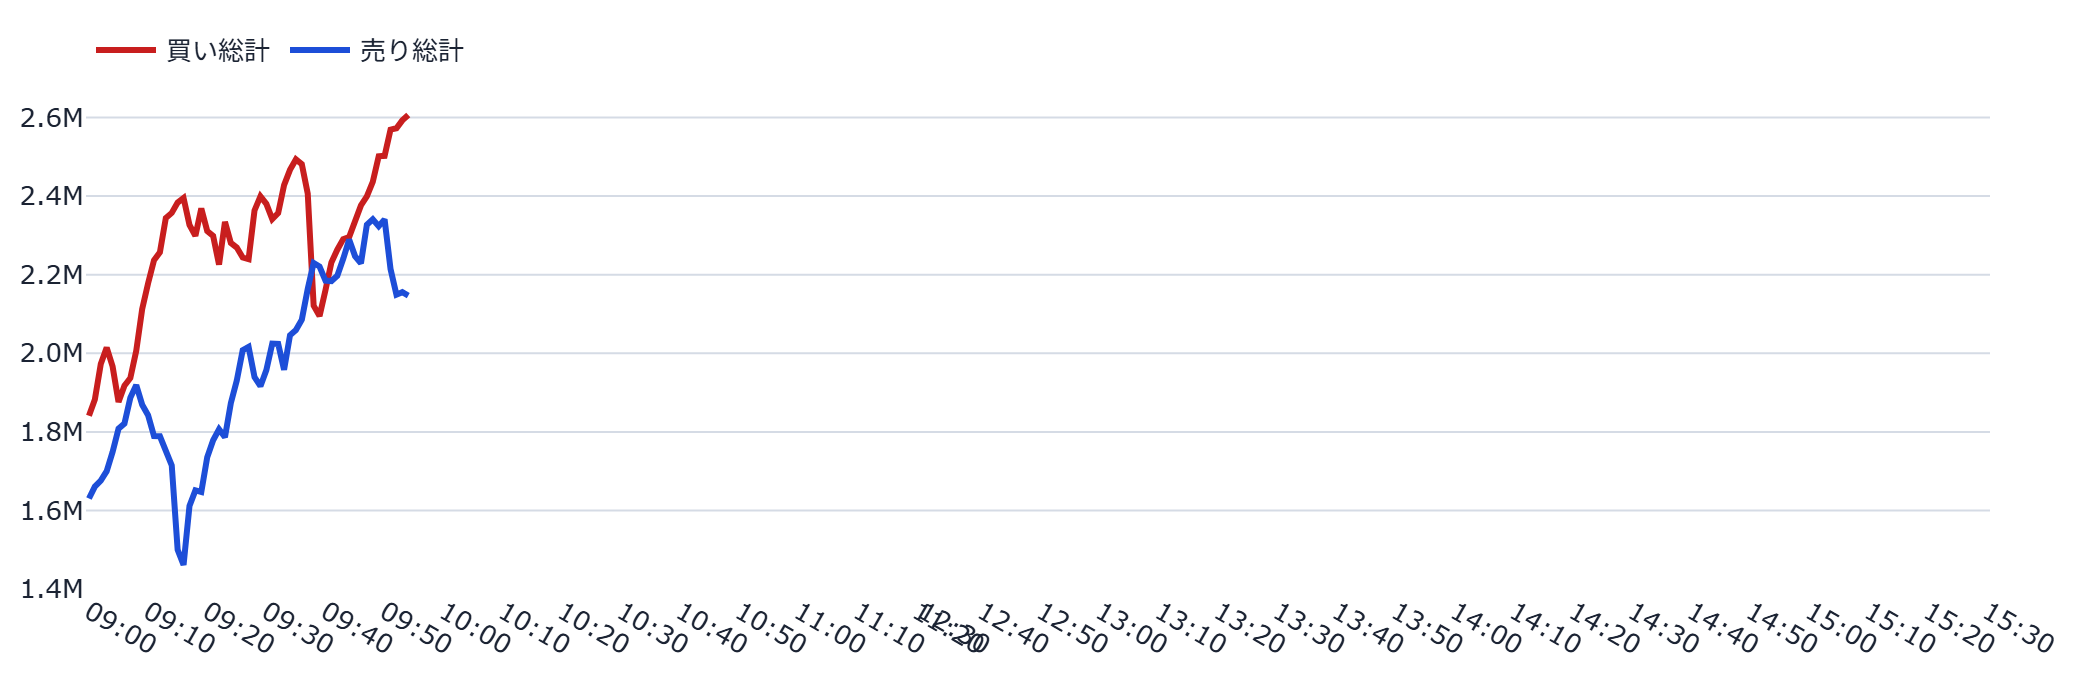
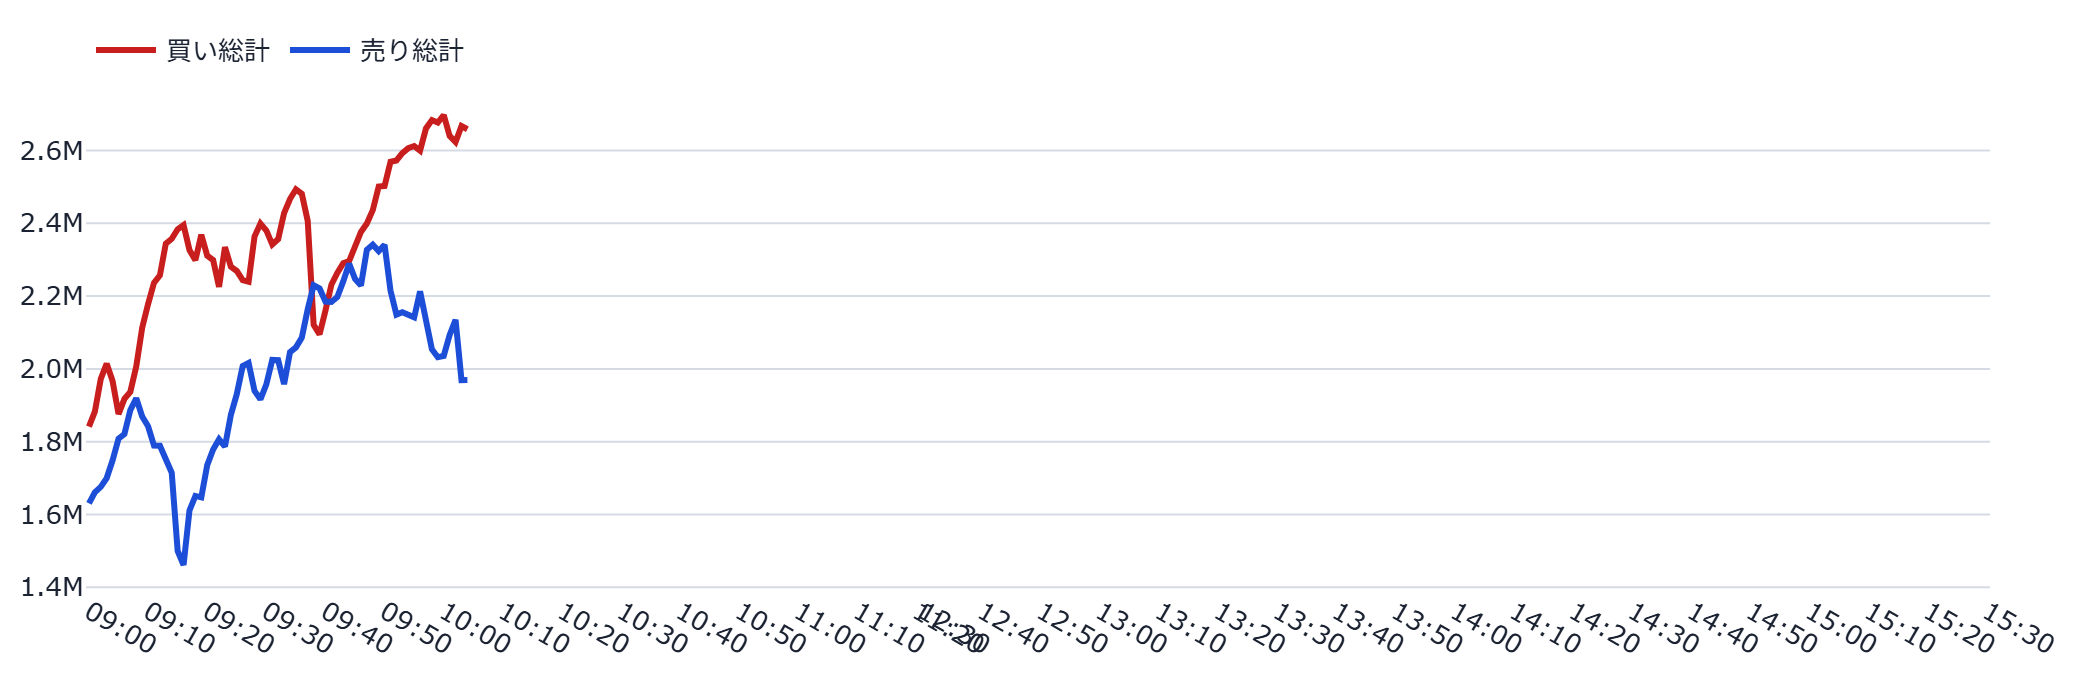
auto: refresh static dashboard (2026-11-09 10:05:14 JST)

diff --git a/docs/index.html b/docs/index.html
@@ -141,13 +141,13 @@
       <div class="panel header">
         <span class="symbol">285A</span>
         <span class="company">キオクシアホールディングス</span>
-        <span class="price">8,334円</span>
-        <span class="chg" style="color:#1D4ED8">-2.08%</span>
+        <span class="price">8,481円</span>
+        <span class="chg" style="color:#1D4ED8">-0.35%</span>
       </div>
       <p class="caption">更新時刻: 2026-11-09T09:42:31（データは1分間隔で自動生成され、このページも
       60秒毎に自動再読み込みされます）</p>
-      <p class='caption'>⚠ データの更新が約13分前から止まっている可能性があります(通常は1分毎に自動生成)。</p>
-      <p id='visit-count-badge' class='caption'>👀 累計閲覧数: 12,910</p>
+      <p class='caption'>⚠ データの更新が約23分前から止まっている可能性があります(通常は1分毎に自動生成)。</p>
+      <p id='visit-count-badge' class='caption'>👀 累計閲覧数: 12,912</p>
       <p id='like-button-wrap' class='caption'><button id='like-button' type='button' style='cursor:pointer;border:1px solid var(--border);border-radius:6px;padding:1px 10px;margin-right:6px;background:var(--panel);color:var(--text);font-size:1em;vertical-align:middle'>👍</button><span id='like-count-label'>このダッシュボードが役に立ったら押してください（累計 4 いいね）</span></p>
 
       <!-- ★2026-09-08追加(ユーザー指示「AI考察はトップに移動」): モニタ
@@ -155,9 +155,9 @@
            常時最上部に表示する。 -->
       <h2>🤖 AI考察</h2>
       <div class='panel' id='ai-schedule'><h3>🗓 AI考察の予定</h3><ul><li>平日の立会日に、寄り前 08:50／寄り直後 09:10／前場引け前 11:30／大引け後 15:45 の4時点で考察を更新します（考察はClaude(AI)が書きます）。</li><li>土日祝などの休場日は考察を書きません。</li><li>時点の間は、数値のみを約10分ごとに更新します（文章は次の時点まで更新されません）。</li><li>次の予定: 11-09 11:30（前場引け前）／直近の更新: 11-09 09:35（自動生成）</li></ul></div>
-      <div class='panel' id='numeric-summary'><h3>📊 数値要約｜09:42 更新</h3><ul><li>株価: 8,334円（前営業日終値比 -2.08%）</li><li>掲示板: 強気 31.7%／弱気 59.9%／中立 8.4%・投稿 4,508件（約451件/時）</li><li>シグナル: 発火＝話題枯れ(-1.16)／警戒＝他銘柄混入率(0.09)・阿鼻叫喚(セリクラ)(20.6)／平常＝灼熱メーター(過熱)(10.5)・そう思う大量票(40)・イナゴ語彙(euphoria)(1.5)・ネームド集中(0.04)ほか</li><li>11/9 09:42時点｜買い総量 229.8万株／売り総量 218.6万株／比 1.05／差 +11.2万株</li><li>直近30秒: 買い +8.9万株(増加)／売り -2.3万株(減少)</li><li>直近1分: 買い +4.1万株(増加)／売り +3.8万株(増加)</li><li>直近3分: 買い +21.1万株(増加)／売り -7.3万株(減少)</li><li>直近5分: 買い -13.3万株(減少)／売り +0.4万株(増加)</li><li>11/9 09:42時点｜現在値 8,286円／VWAP 8,395.3円（距離 -109.3円・-1.30%）</li><li>出来高 3,569.3万株／売買代金(試算) 2,996.5億円／日中高値 8,710円・安値 8,174円</li><li>変化点: 前営業日終値比 -2.89pt・投稿 +258件</li></ul><p class='caption'>強気・弱気は機械判定（辞書＋軽量モデル）の値です。日単位の向きはLM判定と近く（相関0.8台）、時間単位は粗い点に注意してください。</p></div>
+      <div class='panel' id='numeric-summary'><h3>📊 数値要約｜09:42 更新</h3><ul><li>株価: 8,481円（前営業日終値比 -0.35%）</li><li>掲示板: 強気 31.7%／弱気 59.9%／中立 8.4%・投稿 4,508件（約451件/時）</li><li>シグナル: 発火＝話題枯れ(-1.16)／警戒＝他銘柄混入率(0.09)・阿鼻叫喚(セリクラ)(20.6)／平常＝灼熱メーター(過熱)(10.5)・そう思う大量票(40)・イナゴ語彙(euphoria)(1.5)・ネームド集中(0.04)ほか</li><li>11/9 09:42時点｜買い総量 229.8万株／売り総量 218.6万株／比 1.05／差 +11.2万株</li><li>直近30秒: 買い +8.9万株(増加)／売り -2.3万株(減少)</li><li>直近1分: 買い +4.1万株(増加)／売り +3.8万株(増加)</li><li>直近3分: 買い +21.1万株(増加)／売り -7.3万株(減少)</li><li>直近5分: 買い -13.3万株(減少)／売り +0.4万株(増加)</li><li>11/9 09:42時点｜現在値 8,286円／VWAP 8,395.3円（距離 -109.3円・-1.30%）</li><li>出来高 3,569.3万株／売買代金(試算) 2,996.5億円／日中高値 8,710円・安値 8,174円</li><li>変化点: 前営業日終値比 -1.16pt・投稿 +258件</li></ul><p class='caption'>強気・弱気は機械判定（辞書＋軽量モデル）の値です。日単位の向きはLM判定と近く（相関0.8台）、時間単位は粗い点に注意してください。</p></div>
       <div class='panel' id='screen-extras'><h3>🧭 板・価格まわり・見立ての採点（参考）</h3><ul><li>11/9 09:42時点｜買い総量 229.8万株／売り総量 218.6万株／比 1.05／差 +11.2万株</li><li>直近30秒: 買い +8.9万株(増加)／売り -2.3万株(減少)</li><li>直近1分: 買い +4.1万株(増加)／売り +3.8万株(増加)</li><li>直近3分: 買い +21.1万株(増加)／売り -7.3万株(減少)</li><li>直近5分: 買い -13.3万株(減少)／売り +0.4万株(増加)</li><li>11/9 09:42時点｜現在値 8,286円／VWAP 8,395.3円（距離 -109.3円・-1.30%）</li><li>出来高 3,569.3万株／売買代金(試算) 2,996.5億円／日中高値 8,710円・安値 8,174円</li></ul><p class='caption'>板情報・約定ティック(遅延あり)から作成。売買代金は試算(VWAP×出来高)。見立ての採点は参考・機械採点で、売買の推奨ではありません。</p></div>
-      <div class='metric-row'><div class='metric-card'><div class='metric-label'>株価</div><div class='metric-value'>8,334円</div><div class='metric-delta'>-246円</div></div><div class='metric-card'><div class='metric-label'>強気比率</div><div class='metric-value'>31.7%</div><div class='metric-delta'>-0.3pt</div></div><div class='metric-card'><div class='metric-label'>弱気比率</div><div class='metric-value'>59.9%</div><div class='metric-delta'>+0.2pt</div></div></div><p class='caption'>前回集計(2026-11-09T09:32:30)との比較</p>
+      <div class='metric-row'><div class='metric-card'><div class='metric-label'>株価</div><div class='metric-value'>8,481円</div><div class='metric-delta'>-99円</div></div><div class='metric-card'><div class='metric-label'>強気比率</div><div class='metric-value'>31.7%</div><div class='metric-delta'>-0.3pt</div></div><div class='metric-card'><div class='metric-label'>弱気比率</div><div class='metric-value'>59.9%</div><div class='metric-delta'>+0.2pt</div></div></div><p class='caption'>前回集計(2026-11-09T09:32:30)との比較</p>
       <div class='ai-box'>※無料公開データを機械的に集計した観測情報であり、投資助言・売買推奨ではありません。（11-09 09:35時点・臨時の整理です）<br>
 <br>
 ■ 285Aの寄り付き後<br>
@@ -271,11 +271,11 @@
         <div class="grid2">
           <div class="panel">
             <h3>支持線・抵抗線の目安（SD単位）</h3>
-            <table style='width:100%;border-collapse:collapse;font-size:.92em'><thead><tr><th style='text-align:left'>値幅の目安</th><th style='text-align:left'>上側の水準</th><th style='text-align:left'>下側の水準</th></tr></thead><tbody><tr><td>0.5SD（±3.82%）</td><td>8,652円</td><td>8,016円</td></tr><tr><td>1.0SD（±7.64%）</td><td>8,970円</td><td>7,698円</td></tr><tr><td>1.5SD（±11.46%）</td><td>9,289円</td><td>7,379円</td></tr></tbody></table><p class='caption'>直近14日間の最高値（2026-10-29・14,505円）からの乖離: -42.54%</p><p class='caption'>SDは直近14日間の日次終値リターンの標準偏差（7.64%/日）から算出した値幅の目安であり、到達を予測するものではありません。</p>
+            <table style='width:100%;border-collapse:collapse;font-size:.92em'><thead><tr><th style='text-align:left'>値幅の目安</th><th style='text-align:left'>上側の水準</th><th style='text-align:left'>下側の水準</th></tr></thead><tbody><tr><td>0.5SD（±3.82%）</td><td>8,805円</td><td>8,157円</td></tr><tr><td>1.0SD（±7.64%）</td><td>9,129円</td><td>7,833円</td></tr><tr><td>1.5SD（±11.46%）</td><td>9,453円</td><td>7,509円</td></tr></tbody></table><p class='caption'>直近14日間の最高値（2026-10-29・14,505円）からの乖離: -41.53%</p><p class='caption'>SDは直近14日間の日次終値リターンの標準偏差（7.64%/日）から算出した値幅の目安であり、到達を予測するものではありません。</p>
           </div>
           <div class="panel">
             <h3>市場コンテキスト</h3>
-            <div class='metric-row'><div class='metric-card'><div class='metric-label'>本日の値動きの型</div><div class='metric-value' style='font-size:1.05rem'>トレンド型</div><div class='metric-delta'>不確実性: 普段並み</div></div><div class='metric-card'><div class='metric-label'>値動き ÷ 執行コスト</div><div class='metric-value'>約75.4倍</div><div class='metric-delta'>費用実測2.76bp</div></div></div><p class='caption'>海外ピアの値動き・本日の値動きの型はいずれも事実の記述であり、翌営業日の値動きを予測するものではありません。値動き÷執行コストは値幅の大きさの目安であり、実際に利益を確保できることを意味しません。</p>
+            <div class='metric-row'><div class='metric-card'><div class='metric-label'>本日の値動きの型</div><div class='metric-value' style='font-size:1.05rem'>トレンド型</div><div class='metric-delta'>不確実性: 普段並み</div></div><div class='metric-card'><div class='metric-label'>値動き ÷ 執行コスト</div><div class='metric-value'>約12.7倍</div><div class='metric-delta'>費用実測2.76bp</div></div></div><p class='caption'>海外ピアの値動き・本日の値動きの型はいずれも事実の記述であり、翌営業日の値動きを予測するものではありません。値動き÷執行コストは値幅の大きさの目安であり、実際に利益を確保できることを意味しません。</p>
           </div>
         </div>
         <div class="panel">
@@ -290,7 +290,7 @@
 
       <hr style="border:none;border-top:1px solid var(--border);margin:2rem 0 1rem">
       <p class="caption">⚠ 本情報は掲示板投稿を統計的に集計したものであり、投資助言ではありません。個別の投稿内容は含まれていません。研究・エンタメ用途です。</p>
-      <footer>生成: generate_static_dashboard.py（2026-11-09T09:55:04） /
+      <footer>生成: generate_static_dashboard.py（2026-11-09T10:05:05） /
       画像バックエンド: plotly+kaleido</footer>
     </div>
     <script>(function(){var url="https://script.google.com/macros/s/AKfycbwgSSGQ2n56ohmIYKlNDA1Xe3D8hd3GJbD0U90L4DGtXdb8pqrPokNMHJWjvN1__7bE/exec";var KEY='bbs_visit_counted';var already=sessionStorage.getItem(KEY);var action=already?'read':'hit';var ctrl=(typeof AbortController!=='undefined')?new AbortController():null;var timer=ctrl?setTimeout(function(){ctrl.abort();},5000):null;fetch(url+'?action='+action,{signal:ctrl?ctrl.signal:undefined}).then(function(r){if(timer)clearTimeout(timer);return r.json();}).then(function(data){if(!already)sessionStorage.setItem(KEY,'1');if(data&&typeof data.count==='number'){var el=document.getElementById('visit-count-badge');if(el){el.textContent='\u{1F440} \u7d2f\u8a08\u95b2\u89a7\u6570: '+data.count.toLocaleString();el.style.display='';}}}).catch(function(e){if(timer)clearTimeout(timer);console.warn('visit counter fetch failed (fail-soft):',e);});})();</script><script>(function(){var url="https://script.google.com/macros/s/AKfycbwgSSGQ2n56ohmIYKlNDA1Xe3D8hd3GJbD0U90L4DGtXdb8pqrPokNMHJWjvN1__7bE/exec";var KEY='bbs_liked';var btn=document.getElementById('like-button');var label=document.getElementById('like-count-label');if(!btn||!label)return;function renderLiked(count){btn.disabled=true;btn.style.cursor='default';btn.style.opacity='0.6';btn.textContent='\u2705';label.textContent="\u3044\u3044\u306d\u3057\u307e\u3057\u305f\uff01"+(typeof count==='number'?"\uff08\u7d2f\u8a08 "+count.toLocaleString()+" \u3044\u3044\u306d\uff09":'');}if(localStorage.getItem(KEY)){renderLiked(null);}btn.addEventListener('click',function(){if(localStorage.getItem(KEY))return;btn.disabled=true;var ctrl=(typeof AbortController!=='undefined')?new AbortController():null;var timer=ctrl?setTimeout(function(){ctrl.abort();},5000):null;fetch(url+'?action=like_hit',{signal:ctrl?ctrl.signal:undefined}).then(function(r){if(timer)clearTimeout(timer);return r.json();}).then(function(data){localStorage.setItem(KEY,'1');renderLiked(data&&typeof data.count==='number'?data.count:null);}).catch(function(e){if(timer)clearTimeout(timer);btn.disabled=false;console.warn('like button fetch failed (fail-soft):',e);});});})();</script><script>(function(){var DEFAULT_TAB='overview';function activate(tabName){var buttons=document.querySelectorAll('.tab-bar .tab-btn');var panels=document.querySelectorAll('[data-tab-panel]');if(!buttons.length||!panels.length)return;var matched=false;panels.forEach(function(p){var on=p.getAttribute('data-tab-panel')===tabName;if(on)matched=true;p.classList.toggle('tab-hidden',!on);});if(!matched){panels.forEach(function(p){p.classList.toggle('tab-hidden',p.getAttribute('data-tab-panel')!==DEFAULT_TAB);});tabName=DEFAULT_TAB;}buttons.forEach(function(b){var on=b.getAttribute('data-tab')===tabName;b.classList.toggle('active',on);b.setAttribute('aria-selected',on?'true':'false');});}document.addEventListener('DOMContentLoaded',function(){var bar=document.getElementById('tabBar');if(!bar)return;bar.addEventListener('click',function(e){var btn=e.target.closest('.tab-btn');if(!btn)return;activate(btn.getAttribute('data-tab'));});activate(DEFAULT_TAB);});})();</script></body></html>
